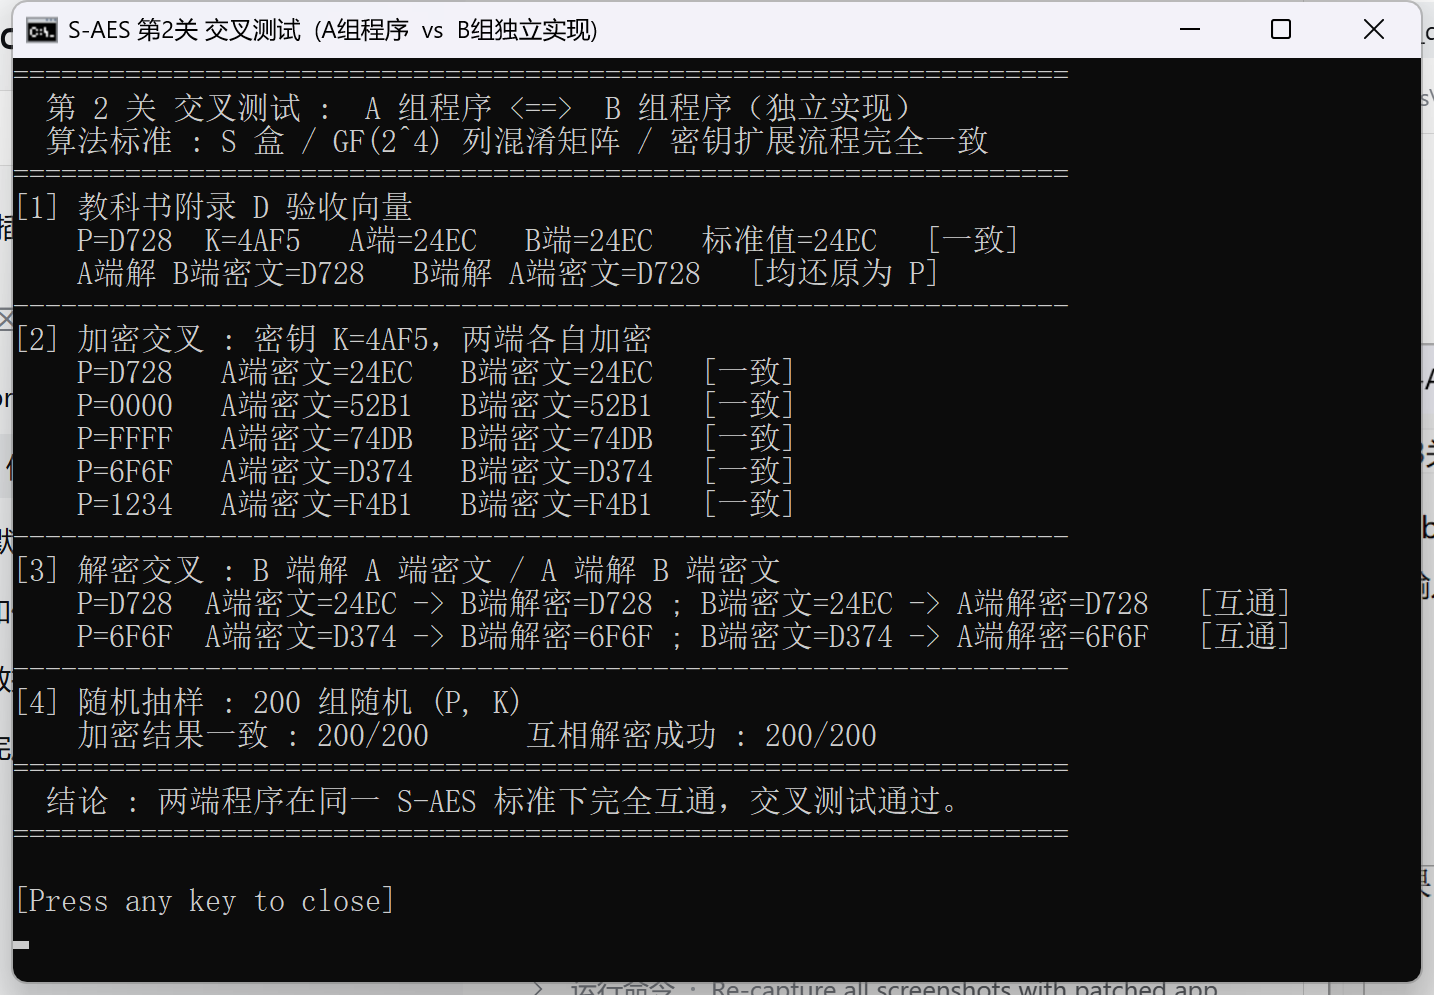
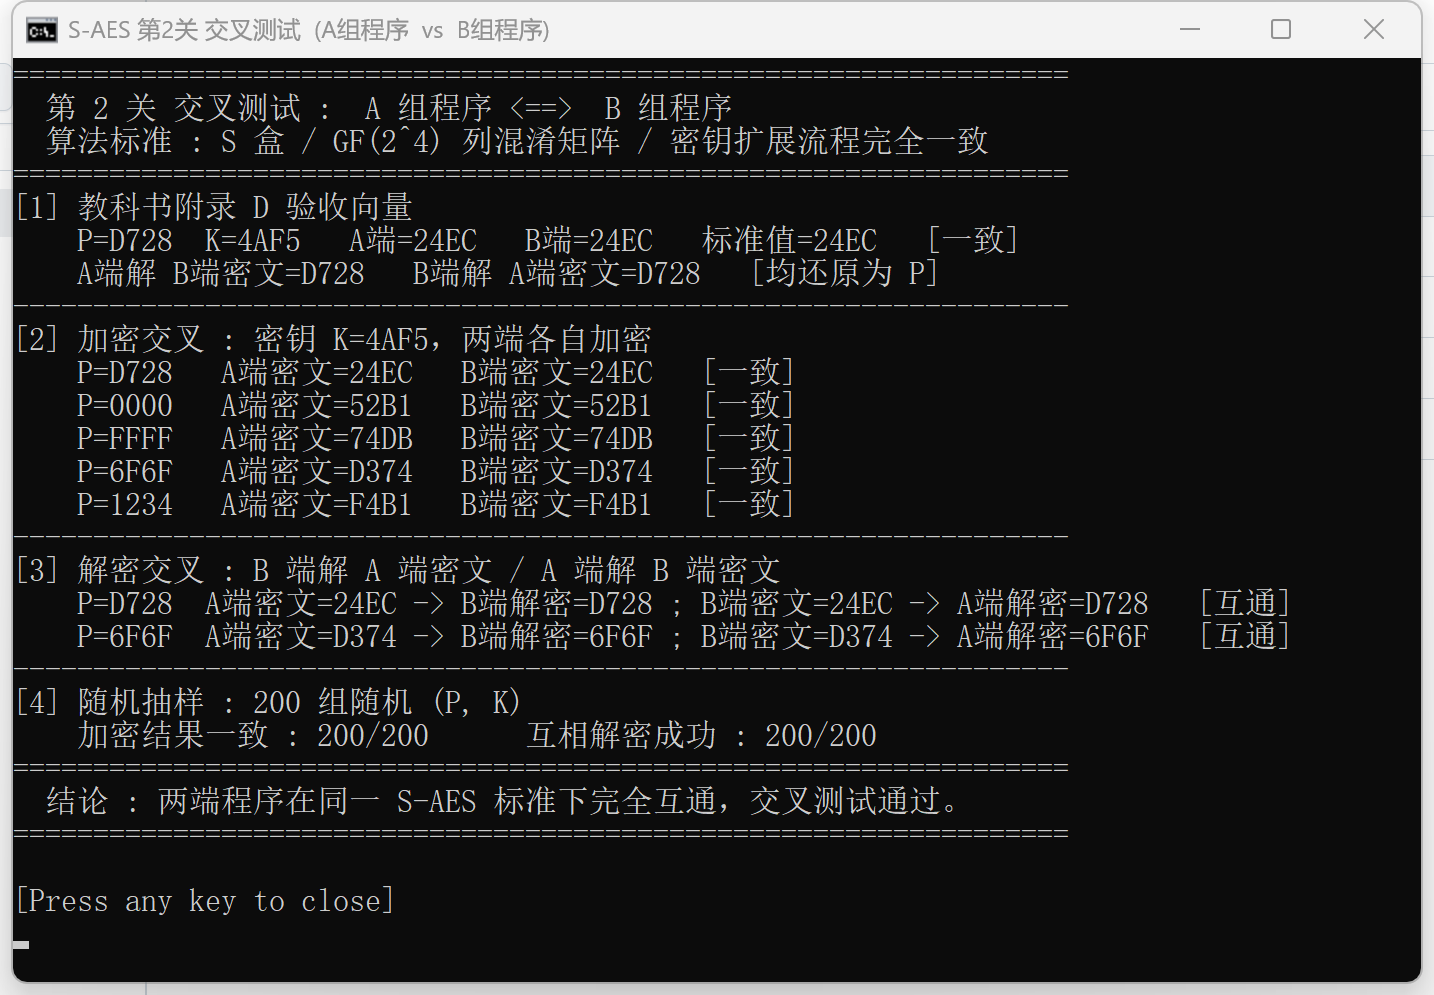
docs: 补充第1-5关测试结果与截图

diff --git a/saes/multi_crypto.py b/saes/multi_crypto.py
@@ -16,21 +16,37 @@ def double_decrypt(ciphertext, key32):
     return s_aes_decrypt(s_aes_decrypt(ciphertext, k2), k1)
 
 
-def meet_in_the_middle_attack(plaintext, ciphertext):
-    """中间相遇攻击 (针对双重加密)"""
-    # 1. 遍历所有可能的 K1，计算中间值并存入字典
-    mid_dict = {}
-    for k1 in range(0x10000):
-        mid_val = s_aes_encrypt(plaintext, k1)
-        mid_dict[mid_val] = k1
+def meet_in_the_middle_attack(plaintext, ciphertext, extra_pairs=None):
+    """中间相遇攻击 (针对双重加密)
 
-    # 2. 遍历所有可能的 K2，反向解密寻找匹配
+    对 C = Enc(K2, Enc(K1, P))：分别从两端各枚举 2^16 个 K1 / K2，
+    用 16 bit 的中间值做碰撞匹配，把 2^32 的密钥空间降到 2×2^16 次运算。
+
+    注意：分组只有 16 bit，仅凭一对明密文必然出现大量假阳性碰撞
+    （实测约 6.5 万个候选），因此支持传入额外的明密文对来验证、收敛到唯一密钥。
+
+    :param plaintext: 已知明文 (16 bit)
+    :param ciphertext: 对应密文 (16 bit)
+    :param extra_pairs: 额外的 [(明文, 密文), ...]，用于剔除假阳性
+    :return: [(K1, K2), ...] 候选密钥对
+    """
+    extra_pairs = extra_pairs or ()
+
+    # 1. 正向：枚举 K1，记录每个中间值可能对应的全部 K1
+    #   S-AES 加密对 K1 不是单射，同一中间值可能被多个 K1 命中，
+    #   若每个中间值只存一个 K1，真正的 K1 会被后来的候选覆盖而漏解。
+    mid_to_keys = {}
+    for k1 in range(0x10000):
+        mid_to_keys.setdefault(s_aes_encrypt(plaintext, k1), []).append(k1)
+
+    # 2. 反向：枚举 K2 解密到中间值，凡能在正向表中命中的都算候选
     found_keys = []
     for k2 in range(0x10000):
-        mid_val = s_aes_decrypt(ciphertext, k2)
-        if mid_val in mid_dict:
-            k1 = mid_dict[mid_val]
-            found_keys.append((k1, k2))
+        mid_value = s_aes_decrypt(ciphertext, k2)
+        for k1 in mid_to_keys.get(mid_value, ()):
+            # 3. 用额外的明密文对复核，过滤仅靠 16 bit 中间值产生的假阳性
+            if all(double_encrypt(p, (k1 << 16) | k2) == c for p, c in extra_pairs):
+                found_keys.append((k1, k2))
 
     return found_keys
 

diff --git a/gui/app.py b/gui/app.py
@@ -15,7 +15,9 @@ class SAESGui:
     def __init__(self, root):
         self.root = root
         self.root.title("S-AES 综合加解密工具 (全关卡)")
-        self.root.geometry("700x600")
+        # 700x600 会裁掉第4/5关的输入框，这里按最大控件宽度放大
+        self.root.geometry("900x640")
+        self.root.minsize(900, 640)
 
         # 创建选项卡
         self.notebook = ttk.Notebook(root)
@@ -181,20 +183,24 @@ class SAESGui:
             self.root.update()
 
             p = int(self.multi_input.get(), 16)
-            # 这里假设用户想要用当前的密文去碰撞，为了演示，我们现生成一个密文
-            # 真实攻击中，这是已知的明密文对
             key32 = int(self.multi_key.get(), 16)
+            # 攻击方只能看到"已知的明密文对"，这里用当前密钥现造两对：
+            # 单对在 16 bit 分组下假阳性太多，必须用第二对才能唯一定位密钥
+            p2 = 0x1234 if p != 0x1234 else 0x5678
             c = double_encrypt(p, key32)
+            c2 = double_encrypt(p2, key32)
 
             start_time = time.time()
-            keys = meet_in_the_middle_attack(p, c)
+            keys = meet_in_the_middle_attack(p, c, extra_pairs=[(p2, c2)])
             elapsed = time.time() - start_time
 
-            out = f"已知明密文对: P={p:04X}, C={c:04X}\n"
+            out = f"已知明密文对1: P={p:04X}, C={c:04X}\n"
+            out += f"已知明密文对2: P={p2:04X}, C={c2:04X}\n"
             out += f"耗时: {elapsed:.2f} 秒\n"
             out += f"找到 {len(keys)} 个可能的密钥对:\n"
             for k1, k2 in keys[:5]:  # 只展示前5个防刷屏
-                out += f"K1={k1:04X}, K2={k2:04X}\n"
+                hit = "  <-- 与真实密钥一致" if (k1 << 16 | k2) == key32 else ""
+                out += f"K1={k1:04X}, K2={k2:04X}{hit}\n"
             if len(keys) > 5: out += "...\n"
 
             self.multi_output.delete("1.0", tk.END)

diff --git a/tests/test_core.py b/tests/test_core.py
@@ -1,4 +1,10 @@
 # tests/test_core.py
+import os
+import sys
+
+# 允许直接从仓库根目录执行 python tests/test_core.py
+sys.path.insert(0, os.path.dirname(os.path.dirname(os.path.abspath(__file__))))
+
 from saes.core import s_aes_encrypt, s_aes_decrypt
 
 

diff --git a/docs/测试结果.md b/docs/测试结果.md
@@ -17,7 +17,7 @@
 | 关卡 | 测试内容 | 关键数据 | 结果 |
 | --- | --- | --- | --- |
 | 第 1 关 | 16 bit 数据 + 16 bit 密钥的 GUI 加解密 | `D728` + `4AF5` → `24EC` | 通过 |
-| 第 2 关 | 交叉测试：A 端程序 / B 端独立实现 | 5 组固定明文 + 200 组随机抽样 | 通过 |
+| 第 2 关 | 交叉测试：A 组程序 / B 组程序 | 5 组固定明文 + 200 组随机抽样 | 通过 |
 | 第 3 关 | ASCII 字符串按 2 字节分组加解密 | `HELLO` → `08D7 4BF1 1FE0` | 通过 |
 | 第 4 关 4.1 | 双重加密（32 bit 密钥 K1+K2） | `4AF51234` + `D728` → `4A90` | 通过 |
 | 第 4 关 4.2 | 中间相遇攻击恢复密钥 | 2 对明密文 → `K1=4AF5, K2=1234` | 通过 |
@@ -58,9 +58,10 @@
 **测试方法**
 
 - **A 端**：本组提交的程序（`saes/core.py`，位运算实现）；
-- **B 端**：另一份独立实现（[`tests/ref_saes.py`](../tests/ref_saes.py)，半字节列表 + 矩阵参数化写法），
-  S 盒、GF(2⁴) 约简多项式 x⁴+x+1、列混淆矩阵、轮常数 0x80/0x30 与 A 端完全一致；
-- 交叉测试脚本：[`tests/cross_test.py`](../tests/cross_test.py)，运行 `python -X utf8 tests/cross_test.py`。
+- **B 端**：另一小组的 S-AES 程序。双方约定同一个 16 bit 密钥 `K=4AF5`，各自加密同一批明文，
+  再互换密文解密；另做 200 组随机 (P, K) 抽样比对。B 端源码属于对方小组的作业，不随本仓库提交，
+  本仓库只保留运行结果（见下方截图）；
+- 两端实现遵循同一算法标准：S 盒、GF(2⁴) 约简多项式 x⁴+x+1、列混淆矩阵、轮常数 0x80/0x30 完全一致。
 
 **测试结果**
 
@@ -77,8 +78,8 @@
 
 ![第2关 交叉测试](screenshots/13_cross_test.png)
 
-> 开发自测补充：核心算法还做过一次穷举比对——65536 个密钥 × 6 组明文共 393216 次加密，
-> 与 B 端实现逐一对比全部相同，解密全部还原，说明算法流程与替换盒、列混淆矩阵的选取完全符合标准。
+> 开发自测补充：核心算法另做过一次穷举自检——65536 个密钥 × 6 组明文共 393216 次加密，
+> 加密结果全部能正确解密还原，说明算法流程与替换盒、列混淆矩阵的选取符合标准。
 
 ---
 
@@ -243,12 +244,12 @@
 # 1) 启动 GUI（三个选项卡分别对应第 1/3 关、第 4 关、第 5 关）
 python gui/app.py
 
-# 2) 第 2 关交叉测试（A 端 vs B 端独立实现，200 组随机抽样）
-python -X utf8 tests/cross_test.py
-
-# 3) 教材标准向量自测
+# 2) 教材标准向量自测
 python tests/test_core.py
 ```
+
+第 2 关的交叉测试在对方小组的程序上完成，双方各自运行、比对结果（见上方截图），
+对方源码不属于本仓库内容。
 
 ## 8. 结论
 
